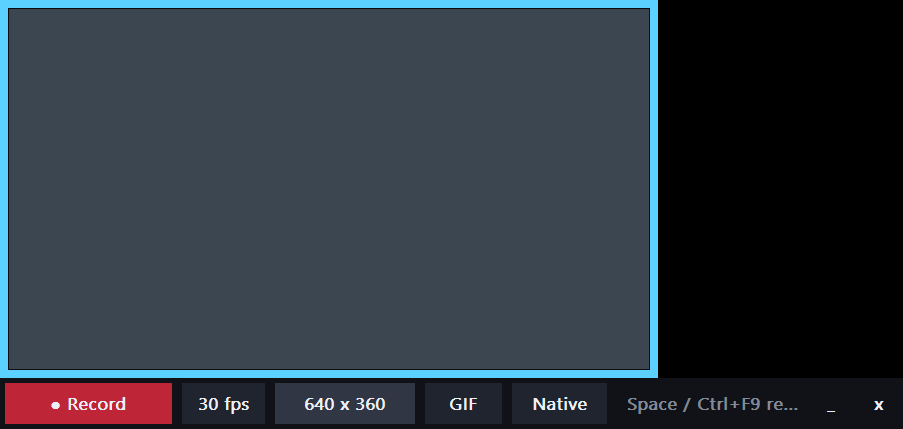
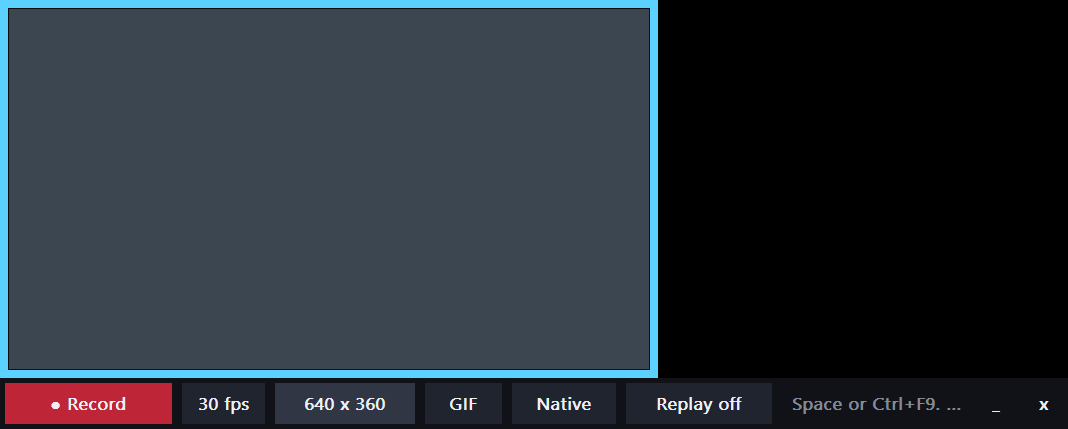
CHANGELOG + DEVLOG: TrontSnap Cam, replay, multi-select (spicy-dev credits)

diff --git a/DEVLOG.md b/DEVLOG.md
@@ -1,0 +1,63 @@
+# TrontSnap devlog
+
+Newest first. What changed, why, and how it was checked. Release notes live in
+CHANGELOG.md; this is the working story behind them.
+
+## 2026-10-31: TrontSnap Cam, instant replay, multi-select fix
+
+**Where the asks came from.** The spicy-dev channel on the nativepixels Discord.
+André asked for a minimal recorder: fullscreen or a window or a custom size, native
+or chosen resolution and fps, MP4 / WEBM / GIF, keyboard shortcuts, keeps recording
+while minimized, small, uses ffmpeg. "Just a small simple tool like GifCam."
+aFoolsDuty added two more: an always-on buffer where one key saves the last 30 s,
+and careful crop and zoom. Trent's own note: TrontSnap was supposed to be this, but
+it isn't minimal. Credit to both of them for the push.
+
+![The cam frame, rendered offscreen at 150% scale](docs/media/devlog/2026-10-31-cam-frame.png)
+
+**Design calls.**
+- The cam is its own process (`trontsnap cam`) and its own plain Win32 window, not
+  another egui tab. It starts instantly and has nothing to do with the gallery.
+- The frame's window region is ring + toolbar only. The middle isn't transparent,
+  it isn't there, so the game underneath still gets clicks, hover and the wheel.
+  Same lesson as the v0.7.3 REC HUD (color-key windows still hit-test on Win11).
+- Everything is `WDA_EXCLUDEFROMCAPTURE`, so the toolbar can sit inside the frame
+  for full-screen takes and still never shows up in the video.
+- Capture stays on the existing path: DXGI duplication into Media Foundation
+  H.264, with hardware encoding and audio. ffmpeg only runs after Stop, for GIF,
+  WEBM and resizing. Piping live frames into ffmpeg was ruled out because VP9
+  can't keep up at 1080p60, and GIF palette generation buffers the whole clip
+  anyway. Without ffmpeg nothing breaks: MP4 records and GIF falls back to the
+  built-in encoder.
+- GIF uses one palette per clip, built from changed pixels (`stats_mode=diff`),
+  and only changed rectangles are re-dithered. That gives small files for UI and
+  game footage without shimmer. GIF fps is capped at 50, because browsers slow any
+  faster frame delay down to 10 fps.
+- The replay buffer is 5 s MP4 segments in %TEMP%, not frames in RAM. 30 s of raw
+  1080p is about 7 GB; 30 s of H.264 is a few MB. On save, the segments are joined
+  with a stream copy and cut to the tail. The first try cut 6.0 s instead of 8 s:
+  the segment durations came from wall-clock time, which includes duplication
+  setup. Measuring them from the encoded frame count gave exactly 8.000 s.
+- Pixel art: 2x / 3x / 4x output uses nearest-neighbor, so pixels stay square.
+
+**The multi-select bug.** Found by driving the real gallery grid in a headless egui
+test with synthetic clicks. Ctrl+clicking two different shots quickly opened the
+second one in Photos. egui counts any two clicks within 0.3 s as a double-click,
+even on different widgets, and the gallery checked `double_clicked()` before
+looking at modifiers. Now the gallery tracks which cell the last plain click hit
+and only opens on a second click on the same cell. Modifier clicks never open.
+While in there: plain click selects one, Shift replaces with a range, Ctrl+Shift
+adds a range, and dragging or copying a selection takes all of it.
+
+(Process note: the first run of that test reproduced the bug for real and opened
+a Photos window with a blank fixture image. Tests now record OS side effects
+instead of performing them.)
+
+**Checked.**
+- 64 tests pass.
+- `trontsnap rec` recorded MP4 native at 30 fps, MP4 at 50% and 60 fps, GIF at
+  15 fps, WEBM at 24 fps and GIF at 3x pixel. ffprobe matched codec, size and fps
+  on every file, and each one decoded fully.
+- `trontsnap replay-test 14 8` saved an 8.000 s clip.
+- Not yet checked by hand: the cam window itself on the real desktop. That waits
+  until Trent is off Demigod work.

diff --git a/CHANGELOG.md b/CHANGELOG.md
@@ -1,5 +1,55 @@
 ## Unreleased
 
+### TrontSnap Cam: a small GifCam-style recorder (ideas from the spicy-dev crew)
+
+Ideas and asks from the spicy-dev channel on the nativepixels Discord. Thanks
+**André** for the minimal recorder spec, and **aFoolsDuty** for instant replay and
+"careful crop and zoom".
+
+- `trontsnap cam` (tray > Recorder Frame, Capture > Recorder frame, or the
+  TrontSnap Cam shortcut) opens a see-through frame. Drag the bottom strip to move
+  it, drag the ring to resize, and arrow keys nudge it 1 px (Shift: 10 px, Ctrl:
+  resize). The inside of the frame is not part of the window, so the game under it
+  keeps getting clicks and scroll. The frame and toolbar never appear in recordings.
+- One-row toolbar: Record, fps (10 to 60), size presets (320x240 to 1920x1080, full
+  screen, or snap to any open window), format (GIF, MP4, WEBM) and output size
+  (native, 75/50/33%, 1080p/720p/480p/360p, or 2x/3x/4x pixel-perfect for pixel art).
+- Space or Enter starts and stops; **Ctrl+F9** works globally, including while the
+  cam window is minimized. Esc closes (finishing any recording first).
+- **Instant replay**: turn it on from the Replay button and the frame area is
+  buffered continuously; **Ctrl+F10** saves the last 15, 30, 60 or 120 s in the
+  chosen format. Buffering costs a few MB of temp space, not RAM.
+- Capture is still hardware H.264 through Media Foundation. GIF, WEBM and resized
+  output are an ffmpeg pass after Stop (found on PATH or next to the exe, never
+  bundled). Without ffmpeg, MP4 still works and GIF uses the built-in encoder.
+- `trontsnap rec --rect X,Y,W,H --secs S --fps N --format gif --scale 2x` records
+  with no window and prints the file, for scripts.
+- Settings and the frame position persist under HKCU\Software\TrontSnap\Cam.
+
+### Gallery multi-select fixed
+
+- Quick Ctrl+clicks on different shots no longer open files. egui counts any two
+  clicks within 0.3 s as a double-click, even on two different cells, so a fast
+  Ctrl+click run opened the second image instead of selecting it. A double-click
+  now only opens when both clicks hit the same shot, and modifier clicks never open.
+- Explorer's model: a plain click selects that one shot (and still copies it),
+  Ctrl toggles, Shift selects the range from the anchor, Ctrl+Shift adds a range.
+- Dragging any shot in a multi-selection drags all of them, and the context menu
+  gains "Copy N files" (all of them on the clipboard as files).
+
+### Easier start
+
+- About shows a One-click setup when it's needed: TrontSnap and TrontSnap Cam
+  shortcuts on the Desktop and in Start, plus start at login. Settings > Startup has
+  the same shortcuts button (click it again after moving the exe to repair them).
+
+- Validation: 64 tests passed, including six multi-select tests that drive the real
+  gallery grid with synthetic pointer input. Every recorder format was recorded
+  headless and checked with ffprobe (codec, size, fps, frame count, full decode);
+  the replay buffer saved an 8.000 s tail from 14 s of buffering.
+
+### Multi-monitor
+
 - Better multi-monitor capture. Fullscreen now grabs the monitor under the mouse by
   default instead of always the primary; Settings > Capture has a target picker
   (monitor under mouse, primary, all monitors in one image, each monitor as its own
